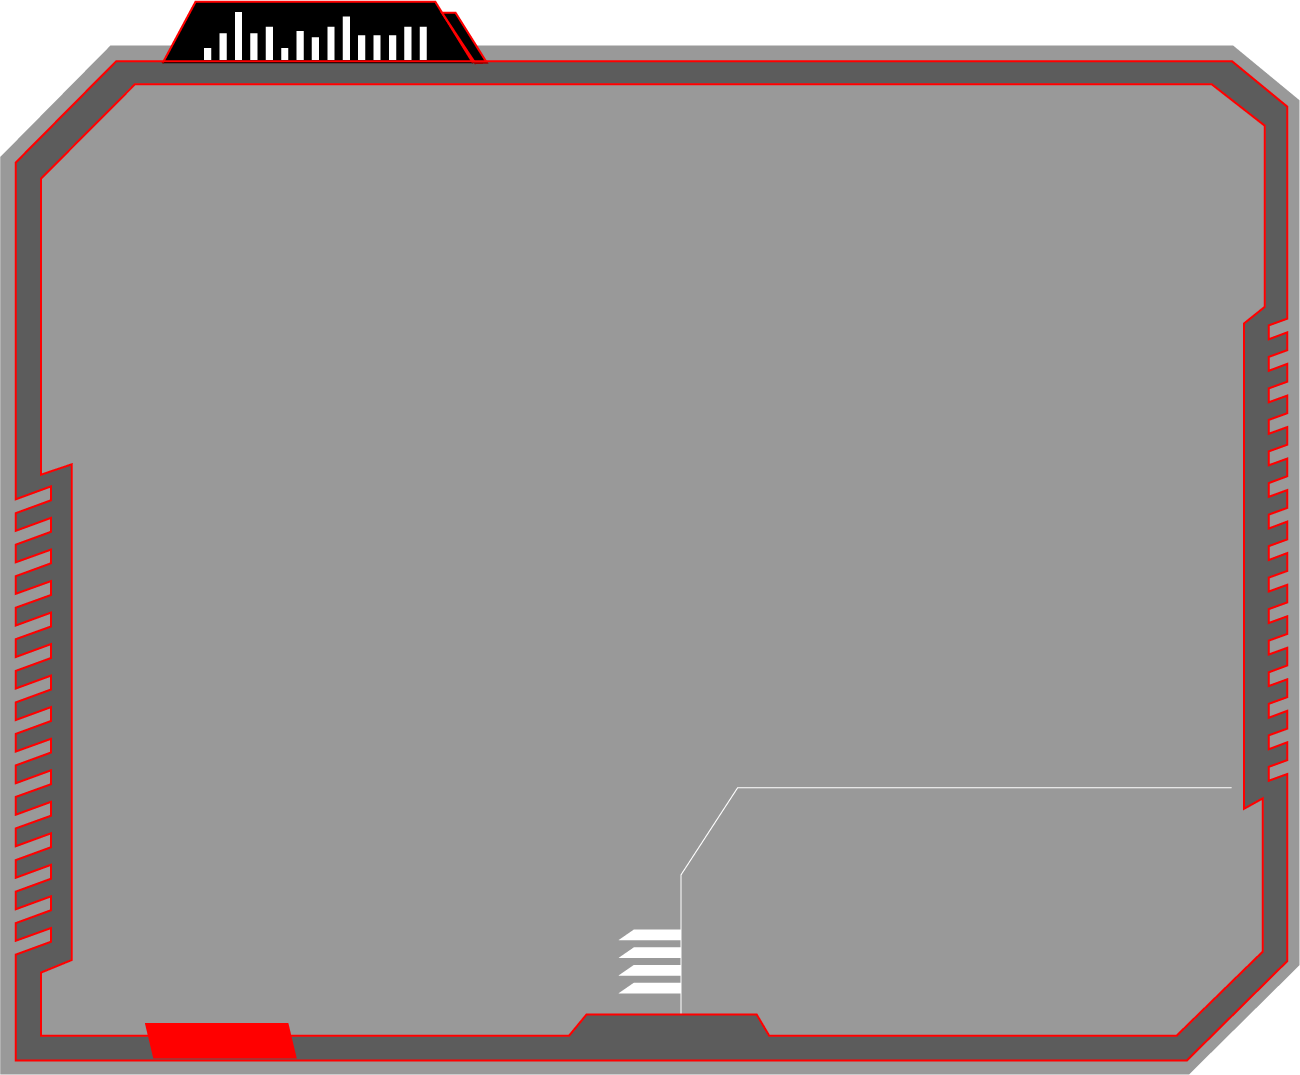
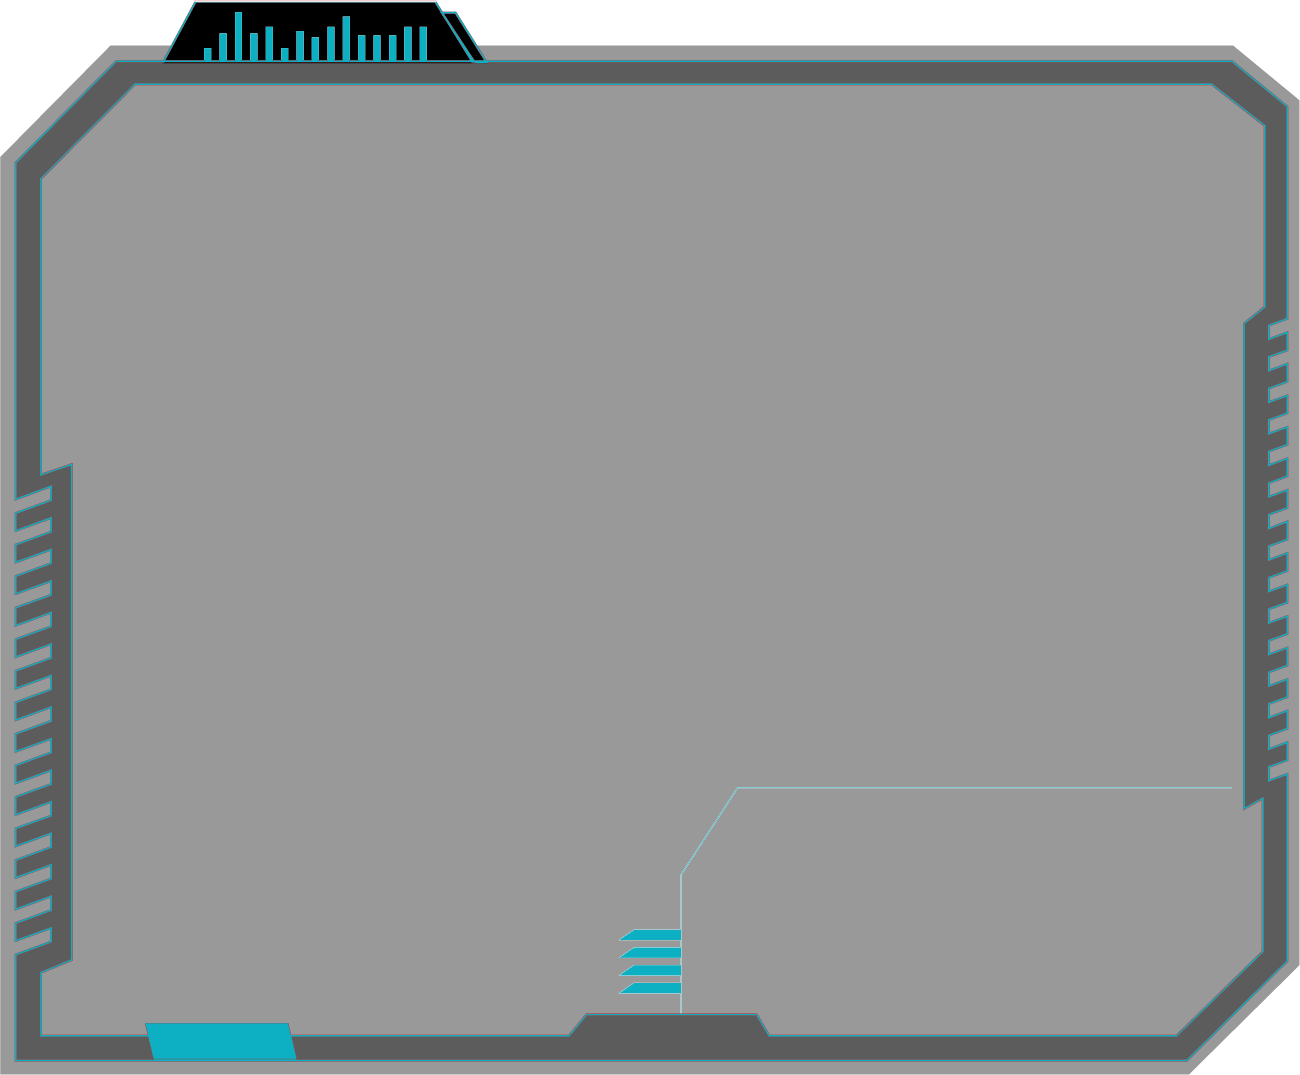
Change color

diff --git a/index.html b/index.html
@@ -22,7 +22,7 @@
 </head>
 
 <body cz-shortcut-listen="true">
-   
+
     <main id="App">
         <div class="header">
             <div class="header__wrap">
@@ -47,23 +47,23 @@
                 src="assets/images/logo-mobile.png" class="top-heading-mobile">
             <div class="container" id='row1' style="">
                 <p>A financial system built on smart contract technology.<br>Open to all, transparent to all.</p>
-                
+
                 <div class="counter-wrapper"><span>$</span>
                     <div id="odometer" class="odometer">0</div>
-                    
+
                 </div>
                 <p>The worlds first decentralized, community support fund</p>
                 <div class="menu">
-                    <div ><button class="button" onclick="howtojoin()">
+                    <div><button class="button" onclick="howtojoin()">
                             <div class="button-content">How to join</div>
                             <div class="button-image"><img src="assets/images/button.png"></div>
                         </button></div>
                     <div><button class="button" onclick="guide()">
-                            <div class="button-content" >Guide</div>
+                            <div class="button-content">Guide</div>
                             <div class="button-image"><img src="assets/images/button.png"></div>
                         </button></div>
                     <div><button class="button" onclick="topspon()">
-                            <div class="button-content" >Top 4 sponsors</div>
+                            <div class="button-content">Top 4 sponsors</div>
                             <div class="button-image"><img src="assets/images/button.png"></div>
                         </button></div>
                 </div>
@@ -71,10 +71,10 @@
         </section>
         <section id="row2" class="section calc bg-hidden" style="">
             <div class="container">
-                <h2 class="join">Join</h2>
+                <h2 class="join" style="color: black;">Join</h2>
                 <div class="panel-join">
-                    <div class="panel-join-background"><img src="assets/images/join.svg"
-                            class="desktop"><img src="assets/images/mobile-join.png" class="mobile">
+                    <div class="panel-join-background"><img src="assets/images/join.png" class="desktop"><img
+                            src="assets/images/mobile-join.png" class="mobile">
                     </div>
                     <div class="panel-join-display"><span>0</span><span>TRX</span></div>
                     <div class="panel-join-values"><a href="#">+ 100 TRX</a><a href="#">+ 1K TRX</a><a href="#">+ 10K
@@ -85,8 +85,10 @@
                         </button><button class="button">
                             <div class="button-content">Join</div>
                             <div class="button-image"><img src="assets/images/button.png"></div>
-                        </button></div>
+                        </button>
+                    </div>
                 </div>
+                <br>
                 <p>to join the project you need to use<br>the Tron wallet. <a href="guide/index.html">read more</a></p>
             </div>
         </section>
@@ -136,7 +138,7 @@
                                 class="ether-value">--- TRX</span></div>
                         <div class="panel-info-item"><span>Unwithdrawn income</span><span class="ether-value">---
                                 TRX</span></div>
-                        <div class="panel-info-item"><span></span><a href="#" class="btn">💵 Withdraw</a></div>
+                        <div class="panel-info-item"><span></span><a href="#" class="btn" style="">💵 Withdraw</a></div>
                     </div>
                 </div>
                 <div class="panel-info">
@@ -167,7 +169,8 @@
         <section id="guide" class="section" style="display: none;">
             <div class="page">
                 <h3>Guide</h3>
-                <p>The TRON CONNECT Smart Contract is designed to provide everyone with an independent, financial support
+                <p>The TRON CONNECT Smart Contract is designed to provide everyone with an independent, financial
+                    support
                     fund, based on Blockchain and Smart Contract technology.</p>
                 <p>Any participant can contribute TRX towards the community fund and supporting TRON CONNECT community
                     members, by doing so the participant activates the contract code and will receive support back from
@@ -215,7 +218,8 @@
                 <p>4th cycle and beyond, equal or greater than previous deposit, up to 2 000 000 TRX.</p>
                 <hr><br>
                 <p>IMPORTANT NOTES*</p>
-                <p>*TRON CONNECT is a community-based project, 100% decentralized, P2P transactions through Smart Contract.
+                <p>*TRON CONNECT is a community-based project, 100% decentralized, P2P transactions through Smart
+                    Contract.
                 </p>
                 <p>*Each Deposit Cycle is 310%.</p>
                 <p>*When 310% is received, a new deposit must be made to continue earning / receiving from any of the 4
@@ -288,8 +292,12 @@
         <!---->
     </main>
     <footer>
-        <div class="footer-content"><a href="#" target="_blank" class="btn">🏛 Official
-                channel</a><a href="https://www.facebook.com/JSREdevelopers" target="_blank" class="btn">🦹 Support team</a>
+        <div class="footer-content center">
+            
+            <a href="#" target="_blank" class="btn" style="background-color: transparent;">🏛 Official
+                channel</a>
+            <a href="https://www.facebook.com/JSREdevelopers" target="_blank" class="btn">🦹 Support
+                team</a>
         </div>
     </footer>
     <script src="https://cdnjs.cloudflare.com/ajax/libs/jquery/3.5.1/jquery.min.js"></script>

diff --git a/assets/styles/stylesdee2.css b/assets/styles/stylesdee2.css
@@ -14,13 +14,14 @@ html {
 
 body {
   margin: 0;
-  background: url(../images/bg.jpg) center repeat;
+  background: url(../images/widget-4-bg.jpg) center repeat;
   background-size: 100% auto; 
   background-attachment: fixed;
 }
 h2 {
   font-size: 46px;
-  margin: 0 0 35px; }
+  margin: 0 0 35px;
+}
 
 h3 {
   font-size: 26px;
@@ -31,7 +32,7 @@ p {
   margin: 0 0 25px; }
 
 a {
-  color: #ff0000; }
+  color: #38D5E2; }
 
 .section {
   padding: 30px 0 30px;
@@ -101,9 +102,10 @@ a {
   height: 82px;
   margin: 0 auto 45px;
   box-sizing: border-box;
-  border: 5px solid #ff0000;
+  border: 5px solid #164C54;
+  border-radius: 5px;
   background: #040107 !important;
-  background: radial-gradient(#ff0000, #040107) !important;
+  background: radial-gradient(#39D5E2, #000) !important;
   line-height: 70px;
   font-size: 30px;
   color: #ffffff !important;
@@ -279,7 +281,7 @@ a {
       line-height: 50px;
       margin: 0 12px; }
       .panel-join-controls .button:last-child .button-content {
-      background-color: #ff0000;
+      background-color: #0DB0C2;
     }
       .panel-join-controls .button:last-child .button-content::before {
         position: absolute;
@@ -289,7 +291,7 @@ a {
         height: 0;
         border-style: solid;
         border-width: 25px 15px 25px 0;
-        border-color: transparent #ff0000 transparent transparent;
+        border-color: transparent #0DB0C2 transparent transparent;
         content: ''; }
       .panel-join-controls .button:last-child .button-content::after {
         position: absolute;
@@ -299,7 +301,7 @@ a {
         height: 0;
         border-style: solid;
         border-width: 25px 0 25px 15px;
-        border-color: transparent transparent transparent #ff0000;
+        border-color: transparent transparent transparent #0DB0C2;
         content: ''; }
     .panel-join-controls .button .button-image {
       top: 3px;
@@ -586,3 +588,48 @@ a {
 .no-display{
   display: none !important;
 }
+
+.mybg {
+  display: flex;
+  align-items: center; 
+}
+  .mybg .button {
+    width: 150px;
+    height: 50px;
+    font-size: 16px;
+    margin: 0 0 20px; }
+    .mybg .button .button-content {
+      line-height: 50px;
+      margin: 0 12px; }
+      .mybg .button:last-child .button-content {
+      background-color: #0DB0C2;
+    }
+
+
+  .mybg .button:last-child .button-content::before {
+    position: absolute;
+    left: -15px;
+    display: inline-block;
+    width: 0;
+    height: 0;
+    border-style: solid;
+    border-width: 25px 15px 25px 0;
+    border-color: transparent #0DB0C2 transparent transparent;
+    content: ''; }
+  .mybg .button:last-child .button-content::after {
+    position: absolute;
+    right: -15px;
+    display: inline-block;
+    width: 0;
+    height: 0;
+    border-style: solid;
+    border-width: 25px 0 25px 15px;
+    border-color: transparent transparent transparent #0DB0C2;
+    content: ''; }
+
+    .center {
+      margin: auto;
+      width: 50%;
+     
+      padding: 10px;
+    }
